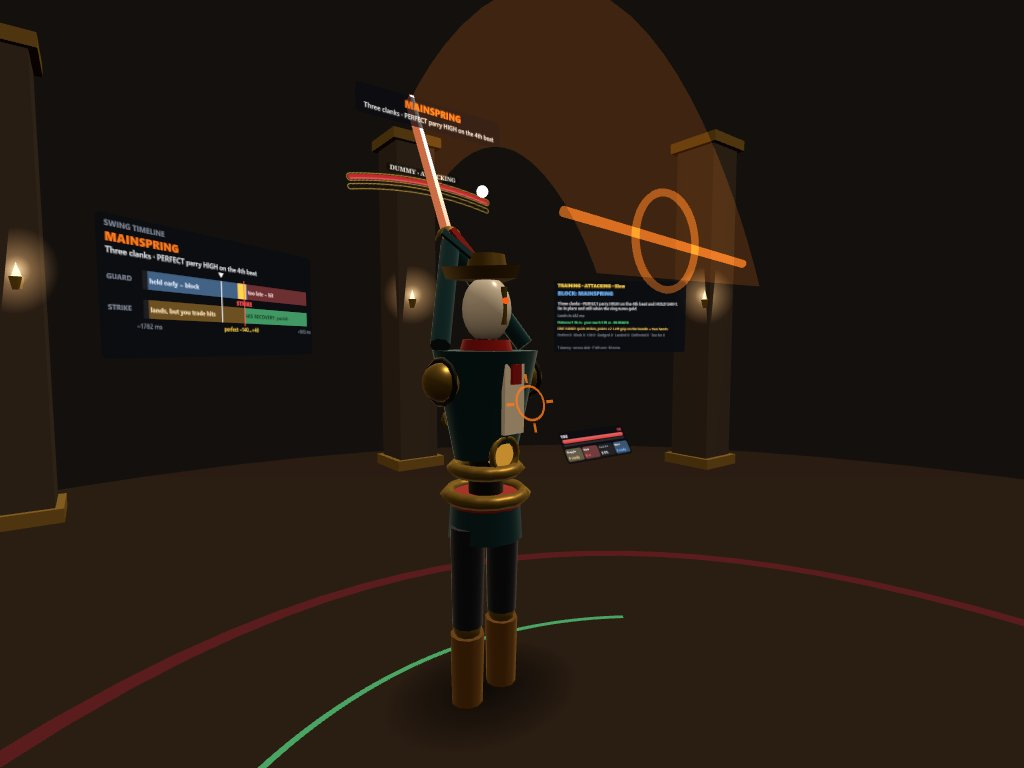
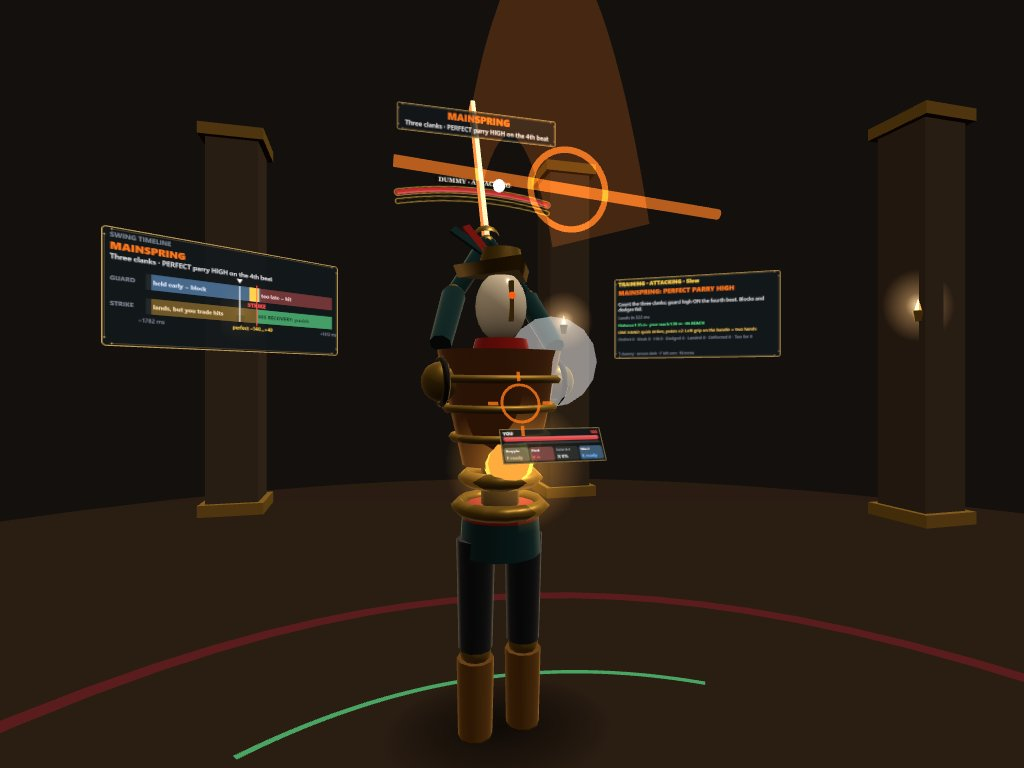
Final review fixes: smoothed IK elbows, additive core halo, calmer Phase 2 chest

diff --git a/src/render/marquis.ts b/src/render/marquis.ts
@@ -40,6 +40,8 @@ export interface MarquisParts {
   coat: THREE.Material;
   ribs: THREE.Material;
   core: THREE.Mesh;
+  /** Fake bloom: an additive halo sprite over the core, coloured and sized with it. */
+  coreHalo: THREE.Sprite;
   /** Brass rib hoops round the bare chest (Phase 2 only). */
   ribRings: THREE.Mesh[];
   /** Wind-up key on his back: spins faster as he winds up a swing. */
@@ -129,7 +131,8 @@ export function buildMarquis(body: THREE.Group, coat: THREE.MeshLambertMaterial)
   const chest = add(new THREE.CylinderGeometry(0.25, 0.15, 0.44, 14), coat, 0, 1.4);
   chest.scale.z = 0.72;
   // Phase 2: under the coat, a copper frame with brass rib hoops.
-  const ribs = new THREE.MeshStandardMaterial({ color: 0x8a5a32, roughness: 0.45, metalness: 0.6, emissive: 0x2a0e04 });
+  // Kept darker than the brass joints so the sword arm reads against the busy chest (Gemini review).
+  const ribs = new THREE.MeshStandardMaterial({ color: 0x6a4428, roughness: 0.55, metalness: 0.5, emissive: 0x1a0802 });
   addRim(ribs, 0xffe0a0, 0.3);
   const ribRings: THREE.Mesh[] = [];
   for (const [y, r] of [[1.29, 0.19], [1.4, 0.215], [1.51, 0.24]] as const) {
@@ -147,6 +150,20 @@ export function buildMarquis(body: THREE.Group, coat: THREE.MeshLambertMaterial)
   // The core: glows behind a brass ring under the chest (dim amber; ember-orange for a Fury swing).
   const coreMat = new THREE.MeshBasicMaterial({ color: 0x5a3a10 });
   const core = add(new THREE.SphereGeometry(0.06, 12, 8), coreMat, 0, 1.2, -0.08);
+  // No post-processing bloom on Quest: an additive radial sprite fakes the glow.
+  const hc = document.createElement('canvas');
+  hc.width = hc.height = 64;
+  const hg = hc.getContext('2d')!;
+  const grd = hg.createRadialGradient(32, 32, 0, 32, 32, 32);
+  grd.addColorStop(0, 'rgba(255,255,255,1)');
+  grd.addColorStop(0.3, 'rgba(255,255,255,0.45)');
+  grd.addColorStop(1, 'rgba(255,255,255,0)');
+  hg.fillStyle = grd;
+  hg.fillRect(0, 0, 64, 64);
+  const coreHalo = new THREE.Sprite(new THREE.SpriteMaterial({ map: new THREE.CanvasTexture(hc), color: 0xff6a10, blending: THREE.AdditiveBlending, depthWrite: false, transparent: true, opacity: 0 }));
+  coreHalo.position.set(0, 1.2, -0.14);
+  coreHalo.scale.setScalar(0.35);
+  body.add(coreHalo);
   add(new THREE.TorusGeometry(0.07, 0.014, 6, 16), brass, 0, 1.2, -0.11);
   // Coat tails, crimson-lined, flaring behind.
   const tails: THREE.Mesh[] = [];
@@ -207,5 +224,5 @@ export function buildMarquis(body: THREE.Group, coat: THREE.MeshLambertMaterial)
   const puff = new THREE.Mesh(new THREE.SphereGeometry(0.08, 10, 8), puffMat);
   puff.visible = false;
   body.add(puff);
-  return { shoulderRings, shoulders, cogs, coreMat, opticMat, cup, tails, chest, shirt, coat, ribs, core, ribRings, key, puff, puffMat };
+  return { shoulderRings, shoulders, cogs, coreMat, opticMat, cup, tails, chest, shirt, coat, ribs, core, coreHalo, ribRings, key, puff, puffMat };
 }

diff --git a/src/render/views.ts b/src/render/views.ts
@@ -637,16 +637,23 @@ export class EnemyView {
       const late = toStrike <= 400;
       const pulse = 0.5 + 0.5 * Math.sin(duel.time / (late ? 45 : 120));
       P.coreMat.color.setRGB(1, 0.32 + 0.15 * pulse, 0.05).multiplyScalar(late ? 1 : 0.55);
+      const halo = P.coreHalo.material as THREE.SpriteMaterial;
+      halo.color.copy(P.coreMat.color);
+      halo.opacity = late ? 0.75 + 0.25 * pulse : 0.35;
+      P.coreHalo.scale.setScalar(late ? 0.45 + 0.1 * pulse : 0.3);
       P.opticMat.color.setHex(0xff5a14);
       this.bladeMat.emissive.setHex(0xff6a10);
       this.bladeMat.emissiveIntensity = late ? 1.2 + 0.6 * pulse : 0.5;
     } else {
       P.coreMat.color.setHex(e.state === 'stagger' ? 0x201008 : 0x5a3a10);
+      (P.coreHalo.material as THREE.SpriteMaterial).opacity = p2 && e.state !== 'stagger' ? 0.25 : 0;
       P.opticMat.color.setHex(e.state === 'stagger' ? 0x302010 : 0xffc860);
     }
   }
 
   private readonly elbowV = new THREE.Vector3();
+  private readonly elbowPrev = [new THREE.Vector3(), new THREE.Vector3()];
+  private readonly elbowInit = [false, false];
   private readonly poleV = new THREE.Vector3();
   private readonly dirV = new THREE.Vector3();
 
@@ -668,7 +675,15 @@ export class EnemyView {
     pole.addScaledVector(dir, -pole.dot(dir));
     if (pole.lengthSq() < 1e-6) pole.set(0, -1, 0);
     pole.normalize();
-    const elbow = this.elbowV.copy(sh).addScaledVector(dir, a).addScaledVector(pole, h);
+    const target = this.elbowV.copy(sh).addScaledVector(dir, a).addScaledVector(pole, h);
+    // Smooth the elbow (fast, ~25 ms) so a pole flip at full extension never pops it across.
+    const prev = this.elbowPrev[i];
+    if (!this.elbowInit[i]) {
+      prev.copy(target);
+      this.elbowInit[i] = true;
+    } else prev.lerp(target, 0.5);
+    // Keep the smoothed elbow on the upper-arm sphere around the shoulder.
+    const elbow = prev.sub(sh).setLength(L1).add(sh);
     placeSegment(upper, sh, elbow, this.v3);
     // The forearm reaches the hand even when the hilt is out of reach (it just stretches a little).
     placeSegment(fore, elbow, hand, this.v3);

diff --git a/docs/design/2026-11-16-gemini-research.md b/docs/design/2026-11-16-gemini-research.md
@@ -153,3 +153,18 @@ Audio spec highlights now in: tells spatialised at his body with an HRTF panner 
 Fury ignition, feint tick, his strikes, the perfect at the clash point), your own hits stay in your
 head. New sounds: **feint tick** (4-6 kHz, 50 ms, from the sword shoulder when a hold starts) and
 **Fury ignition** (rising 200 Hz → 1 kHz sizzle, 400 ms, from his core).
+
+## 9. Final review (Gemini saw the Phase 2 capture and the menu)
+
+| Problem | Our call |
+|---|---|
+| IK elbows can pop on extreme overhead windups | **fixed**: elbow smoothed (~25 ms) and kept on the upper-arm length |
+| Wrist watch dense at 13 cm; move HP outside the bezel | headset check first (HP in the centre may be fine at arm's length) |
+| No bloom on Quest: fake the core glow with additive planes | **built**: additive halo sprite over the core (Fury and Phase 2) |
+| Six sub-pages = pointer friction; use tabs along the frame edges | later (the menu is stick-driven, not a laser pointer, so fewer clicks than assumed) |
+| Phase 2 chest noise swallows the sword arm | **fixed**: darker ribs, brass joints stay brightest |
+
+**First headset test (Gemini):** Phase 2's Mainspring with the wrist HUD in use. Can you track the
+three clanks, the ember core and your wrist dials at once without clutter or dropped frames? If you
+miss the fourth-beat parry because you were reading a dial or distracted by steam, simplify the wrist
+and cut the steam.
